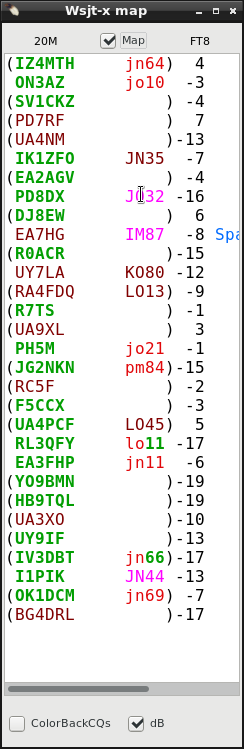
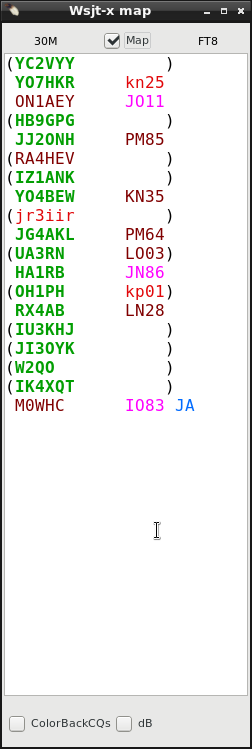
Wsjt-x Map: Directed CQ now only 2chrs. Help fixed.

diff --git a/help/wsjt.html b/help/wsjt.html
@@ -213,21 +213,22 @@ cd ~/.config/cqrlog/ctyfiles
 </pre></p>
 <p><img src="img/wsjt29.png" name="29" width="144" height="383">
 </img><img src="img/wsjt35.png" name="35" width="144" height="383">
+</img><img src="img/wsjt36.png" name="35" width="144" height="383">
 </img>
 </p>
 <p>CQ-monitor can be turned to "Band map"- type Wsjt-x map by checking "<strong>Map</strong>". It hides all other controls.
 How ever if alerts were <strong>on</strong> they stay <strong>on</strong>. Exception is that <strong>Text alert</strong> does not find continents and comments like "New country","QSL needed" etc.
-</br>Map-mode shows all traffic on band. Colors of callsigns and locators are same than in CQ-monitor. If call is not in parentheses it is a CQ-call.
- Calls in parentheses have qso if there is no locator shown. If locator is shown they are answering to someones CQ.
-</br>If station is calling directed CQ that is <strong>not directed to you</strong> (same as in CQ-monitor) the message is shown at the and of line. As wsjt-x map does not have line wrapping, you can easily hide it partially, or full, by setting the width of Map window.
+</br>Map-mode shows all traffic on band. Colors of callsigns and locators are same than in CQ-monitor. If call is <strong>not in parentheses</strong> it is a <strong>CQ</strong>-call.
+ <strong>Calls in parentheses have qso</strong> if there is no locator shown. If locator is shown they are answering to someones CQ.
+</br>If station is calling <strong>directed CQ</strong> that is <strong>not directed to you</strong> (same as in CQ-monitor, but in short form)  <strong>the direction </strong> is shown at the and of line.
 </br> 
 </br>As also all other lines than CQs are compared against your log entries this mode will eat more of cpu cycles than CQ-monitor.
 </br>Map-mode does not save history, it clears itself always at start of new decoding period if there is something new to show. Otherwise lines are turned gray as in CQ-monitor.
 </br></br>You can initiate qso same way as in CQ-monitor by double click on line  <strong>without </strong> parentheses.
  Double click on line  <strong>with </strong> parentheses loads call to Std messages of Wsjt-x and sets frequency, but  <strong>does not initiate TX</strong>.
 </br>This is a new property of Wsjt-x 1.9.0-rc3 and up. With previous versions this does not make any action.
-</p><p><strong>dB</strong> selection shows station snr report, as it shows up in Band Activity of wsjt-x.
-</br><strong>ColorBackCQs </strong> selection work so that all CQs are printed (colored) back to Wsjt-x Band Activity window and rest of the traffic will appear to Wsjt-x band map.
+</p><p><strong>dB</strong> selection shows station snr report, like it shows up in Band Activity of wsjt-x.
+</br><strong>ColorBackCQs </strong> selection work so that all <strong>CQs</strong> are printed (colored) <strong>back to Wsjt-x</strong> Band Activity window and <strong>rest of the traffic</strong> will appear to Wsjt-x <strong>band map</strong>.
 </p>
 <p><img src="img/wsjt31.png" name="31" width="453" height="383">
 </img><img src="img/wsjt32.png" name="32" width="253" height="283">
